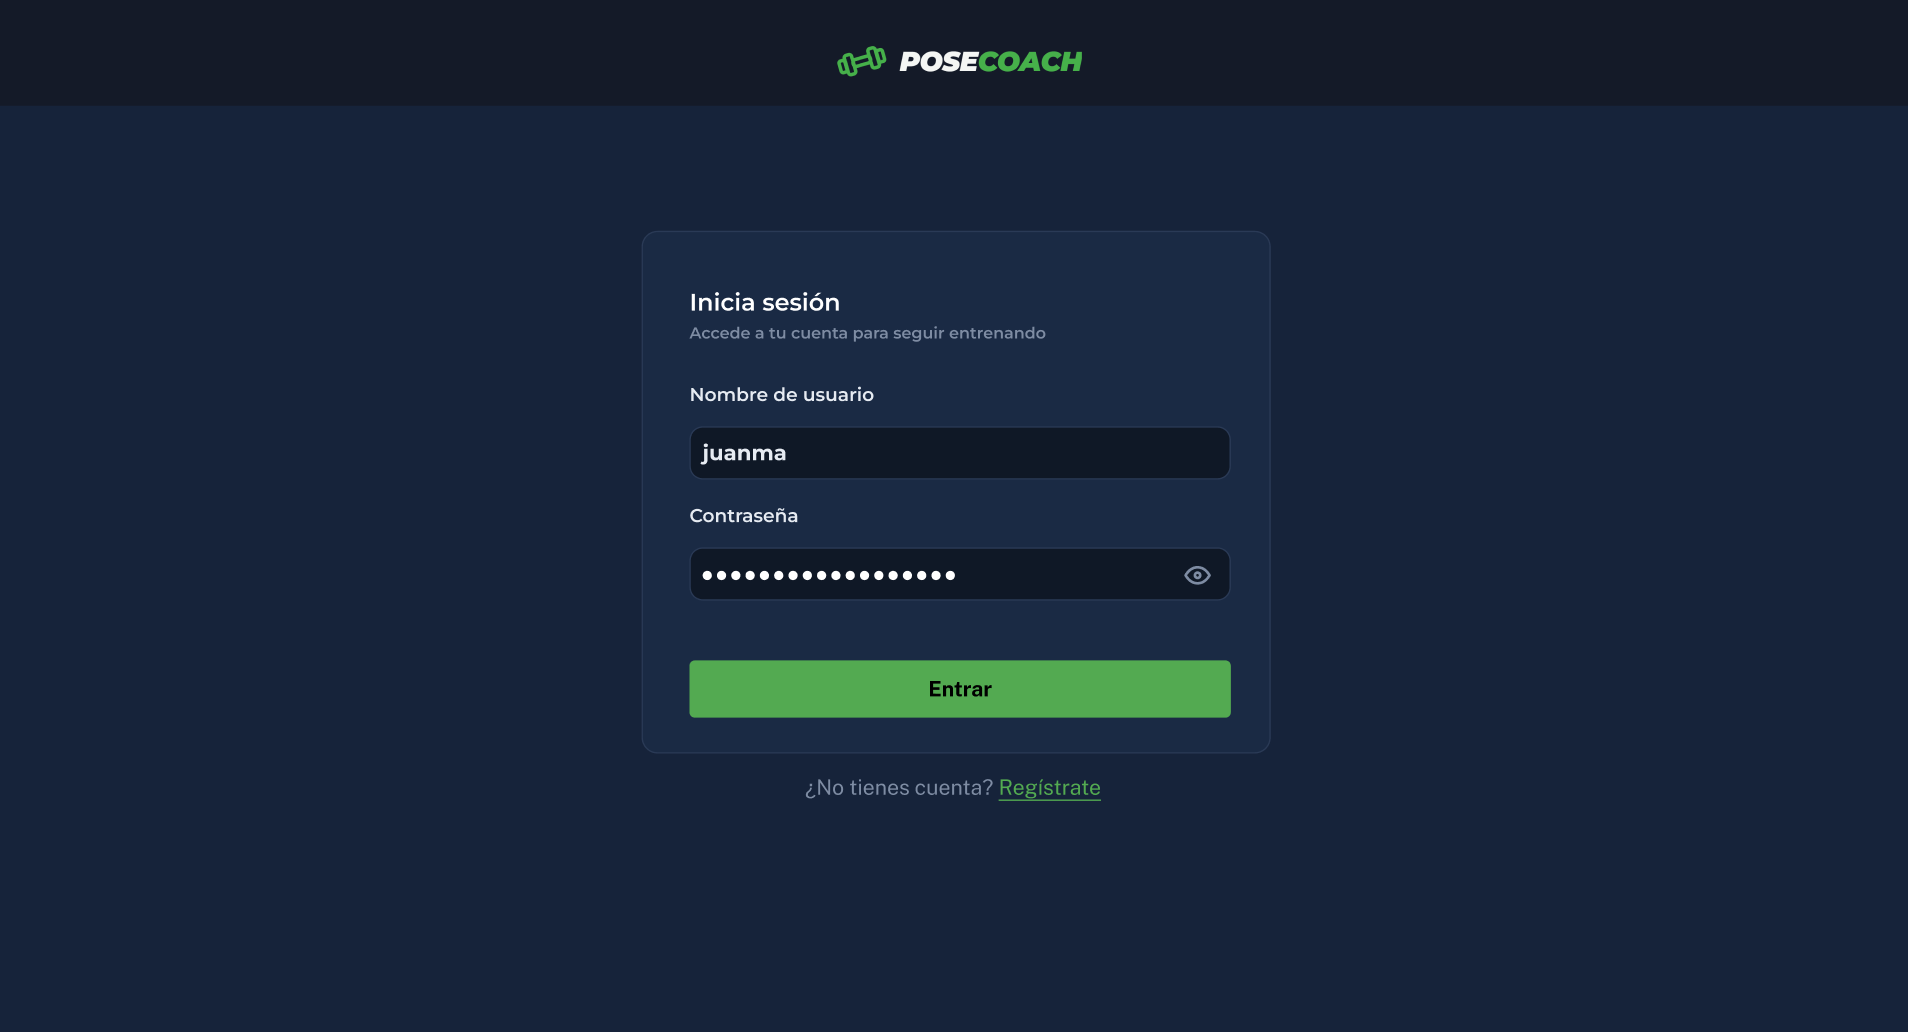
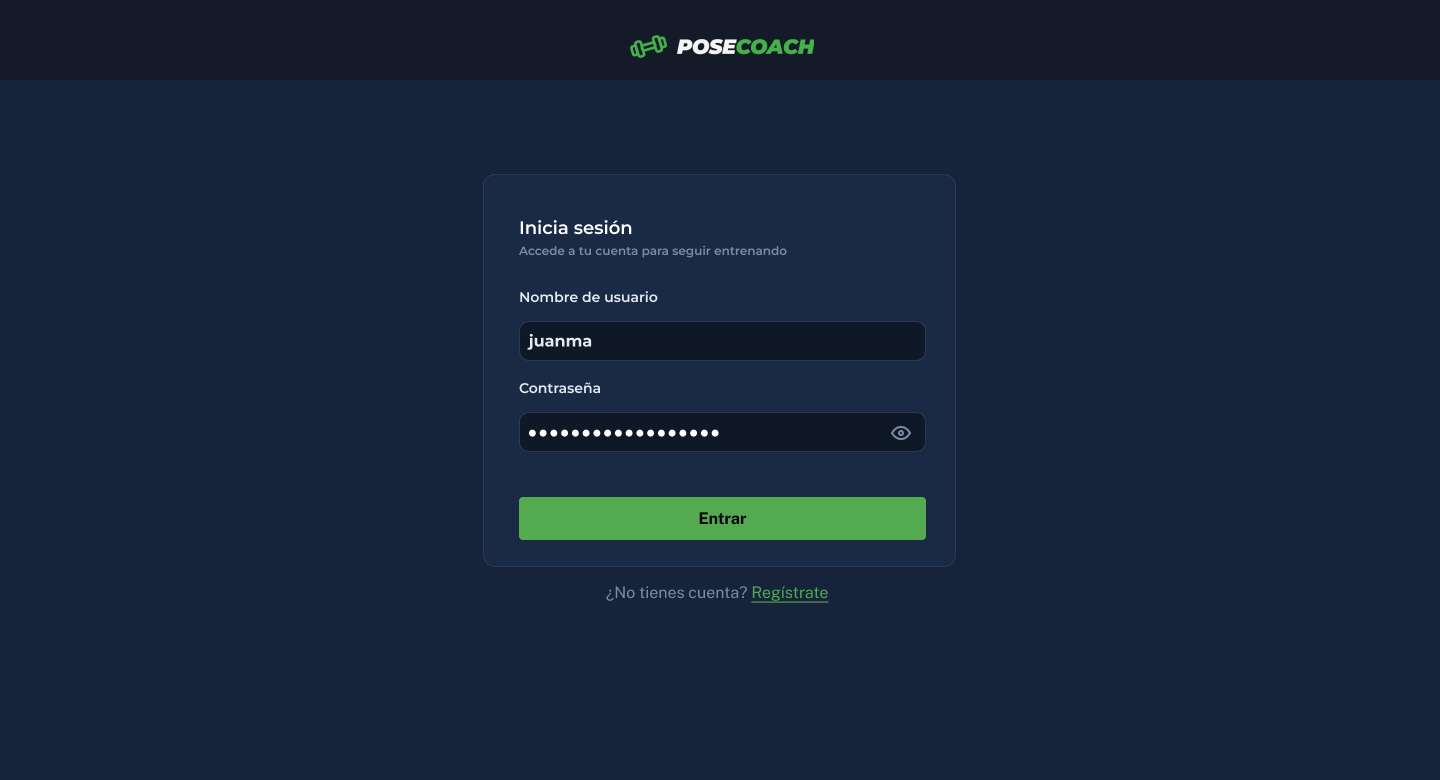
Updated document

diff --git a/docs/main.tex b/docs/main.tex
@@ -829,7 +829,29 @@
 
     \begin{figure}[htbp]
         \centering
-        \includegraphics[width=0.9\textwidth]{img/arquitectura-general.png}
+        \begin{tikzpicture}[
+            font=\small,
+            bloque/.style={draw, rounded corners, align=center, inner sep=8pt,
+                           minimum height=20mm, minimum width=30mm},
+            cliente/.style={bloque, fill=blue!8, draw=blue!40},
+            servidor/.style={bloque, fill=green!8, draw=green!45},
+            datos/.style={bloque, fill=black!8, draw=black!35},
+            flecha/.style={{Stealth[length=2mm]}-{Stealth[length=2mm]}, thick},
+            etiq/.style={font=\scriptsize, align=center}
+        ]
+
+        \node[cliente]  (nav) at (0, 0)   {\textbf{Navegador}\\[2pt]Angular\\Cliente};
+        \node[servidor] (srv) at (5.2, 0) {\textbf{Servidor}\\[2pt]Spring Boot\\API REST};
+        \node[datos]    (bd)  at (10.4, 0){\textbf{Base de datos}\\[2pt]MySQL\\Docker};
+
+        \draw[flecha] (nav) -- (srv)
+            node[etiq, midway, above=1pt] {HTTP · JSON}
+            node[etiq, midway, below=1pt] {(REST)};
+        \draw[flecha] (srv) -- (bd)
+            node[etiq, midway, above=1pt] {SQL}
+            node[etiq, midway, below=1pt] {(JDBC)};
+
+        \end{tikzpicture}
         \caption{Arquitectura general del sistema.}
         \label{fig:arquitectura-general}
     \end{figure}
@@ -1645,15 +1667,6 @@
     de modo que unas acciones ancladas al comentario lo dejarían sin ninguna
     forma de modificar o retirar su valoración.
 
-    \begin{figure}[htbp]
-        \centering
-        \includegraphics[width=\textwidth]{img/mockup-valoraciones-publicada.png}
-        \caption{Pestaña de valoraciones con una valoración ya publicada:
-        formulario bloqueado con las acciones de edición y eliminación, y
-        comentario propio destacado al inicio del listado.}
-        \label{fig:mockup-valoraciones-publicada}
-    \end{figure}
-
     Cada comentario se identifica mediante el nombre de su autor, un avatar
     generado a partir de sus iniciales y la antigüedad de la publicación
     expresada en términos relativos, más legible que una fecha absoluta en un
@@ -1786,7 +1799,7 @@
 
     \begin{figure}[htbp]
         \centering
-        \includegraphics[width=0.7\textwidth]{img/mockup-login.png}
+        \includegraphics[width=\textwidth]{img/mockup-login.png}
         \caption{Maqueta de la pantalla de inicio de sesión.}
         \label{fig:mockup-login}
     \end{figure}
@@ -2148,6 +2161,21 @@
     del tronco pero no su redondeo, y expone estas limitaciones de forma
     deliberada, ya que delimitan el alcance de una herramienta orientativa y no
     clínica.
+
+    \begin{figure}[htbp]
+        \centering
+        \includegraphics[width=\textwidth]{img/mockup-analisis-dropzone.png}
+        \caption{Maqueta de la selección del vídeo para el análisis postural.}
+        \label{fig:mockup-analisis-dropzone}
+    \end{figure}
+
+    \begin{figure}[htbp]
+        \centering
+        \includegraphics[width=\textwidth]{img/mockup-analisis-resultados.png}
+        \caption{Maqueta de la vista de resultados del análisis, con la
+        puntuación y las correcciones.}
+        \label{fig:mockup-analisis-resultados}
+    \end{figure}
     
 
 
@@ -2191,7 +2219,7 @@
 
     \begin{figure}[htbp]
         \centering
-        \includegraphics[width=0.85\textwidth]{img/spike-mediapipe.png}
+        \includegraphics[width=\textwidth]{img/spike-mediapipe.png}
         \caption{Prueba de concepto de estimación de pose en el navegador:
         detección de los puntos clave del cuerpo y cálculo del ángulo de la
         rodilla sobre un vídeo local.}
@@ -2468,6 +2496,13 @@ El primer módulo implementado en el backend es el de gestión de usuarios,
     favoritos completado, dispone ya de parte de los datos que debe mostrar;
     su composición definitiva queda condicionada al módulo de corrección
     postural, del que procede el resumen de análisis recientes.
+
+    \begin{figure}[htbp]
+        \centering
+        \includegraphics[width=\textwidth]{img/mockup-dashboard.png}
+        \caption{Maqueta de la página de inicio con sesión iniciada.}
+        \label{fig:mockup-dashboard}
+    \end{figure}
 
     \subsection{Formularios y validación en el cliente}
 
@@ -3238,6 +3273,14 @@ El primer módulo implementado en el backend es el de gestión de usuarios,
     normalizadas que deben proyectarse sobre las dimensiones nativas de la imagen;
     un dimensionado incorrecto desplaza el esqueleto respecto al cuerpo.
 
+    \begin{figure}[htbp]
+        \centering
+        \includegraphics[width=\textwidth]{img/analisis-esqueleto.png}
+        \caption{Esqueleto detectado superpuesto sobre el vídeo durante el
+        análisis.}
+        \label{fig:analisis-esqueleto}
+    \end{figure}
+
     \subsection{Cálculo de métricas: ángulos articulares y alineaciones}
 
     Con los puntos de cada fotograma disponibles, el cálculo de las métricas se
@@ -3308,6 +3351,14 @@ El primer módulo implementado en el backend es el de gestión de usuarios,
     muestran también, en positivo, de modo que el usuario reciba una devolución
     equilibrada y no únicamente la relación de errores.
 
+    \begin{figure}[htbp]
+        \centering
+        \includegraphics[width=\textwidth]{img/analisis-resultados.png}
+        \caption{Vista de resultados del análisis en la aplicación, con la
+        puntuación coloreada y las correcciones detectadas.}
+        \label{fig:analisis-resultados}
+    \end{figure}
+
     Se descartó deliberadamente una funcionalidad presente en la maqueta: el
     enlace desde cada corrección al instante exacto del vídeo en que se detecta.
     Su implementación exigiría conservar, junto a cada corrección, la marca
@@ -3336,6 +3387,14 @@ El primer módulo implementado en el backend es el de gestión de usuarios,
     anteriores. El resumen de la página de inicio se resuelve, conforme al
     diseño, con dos consultas de recuento independientes.
 
+    \begin{figure}[htbp]
+        \centering
+        \includegraphics[width=0.8\textwidth]{img/tabla-analysis-creacion.png}
+        \caption{Estructura de la tabla \texttt{analysis\_results} generada en
+        la base de datos.}
+        \label{fig:tabla-analysis-creacion}
+    \end{figure}
+
     Con este módulo se completa la página de inicio con sesión, que los
     incrementos anteriores habían dejado como marcador de posición a la espera de
     los datos que debía mostrar. La vista reúne ahora tres bloques procedentes de
@@ -3350,6 +3409,14 @@ El primer módulo implementado en el backend es el de gestión de usuarios,
     uniformidad de la rejilla. Es un caso en que reutilizar el componente
     existente habría resultado menos adecuado que definir uno específico.
 
+    \begin{figure}[htbp]
+        \centering
+        \includegraphics[width=\textwidth]{img/dashboard-implementado.png}
+        \caption{Página de inicio con el resumen de análisis recientes y los
+        ejercicios favoritos.}
+        \label{fig:dashboard-implementado}
+    \end{figure}
+
     Por último, la vista de catálogo incorpora un distintivo que señala los
     ejercicios que admiten análisis postural. Esta marca resuelve la
     \textit{visibilidad} del módulo sin ampliar el filtrado del catálogo: al
@@ -3359,6 +3426,14 @@ El primer módulo implementado en el backend es el de gestión de usuarios,
     alcance del requisito RF-03. La tarjeta expone para ello un único indicador
     booleano, y no el tipo concreto de analizador, por ser lo único que su
     representación necesita.
+
+    \begin{figure}[htbp]
+        \centering
+        \includegraphics[width=\textwidth]{img/catalogo-analizable.png}
+        \caption{Catálogo de ejercicios con el distintivo que señala los que
+        admiten análisis postural.}
+        \label{fig:catalogo-analizable}
+    \end{figure}
 
 
     \section{Contenerización con Docker}
@@ -3884,6 +3959,21 @@ El primer módulo implementado en el backend es el de gestión de usuarios,
         \caption{Análisis de una sentadilla con profundidad insuficiente: la
         puntuación desciende y la corrección identifica el error.}
         \label{fig:analisis-error}
+    \end{figure}
+
+    \begin{figure}[htbp]
+        \centering
+        \includegraphics[width=0.8\textwidth]{img/postman-analisis-guardado.png}
+        \caption{Guardado de un análisis mediante \texttt{POST /api/analyses}.}
+        \label{fig:postman-analisis-guardado}
+    \end{figure}
+
+    \begin{figure}[htbp]
+        \centering
+        \includegraphics[width=0.8\textwidth]{img/postman-dashboard-summary.png}
+        \caption{Resumen de la página de inicio mediante
+        \texttt{GET /api/dashboard/summary}.}
+        \label{fig:postman-dashboard-summary}
     \end{figure}
 
     Esta validación puso de manifiesto, además, el comportamiento del sistema
